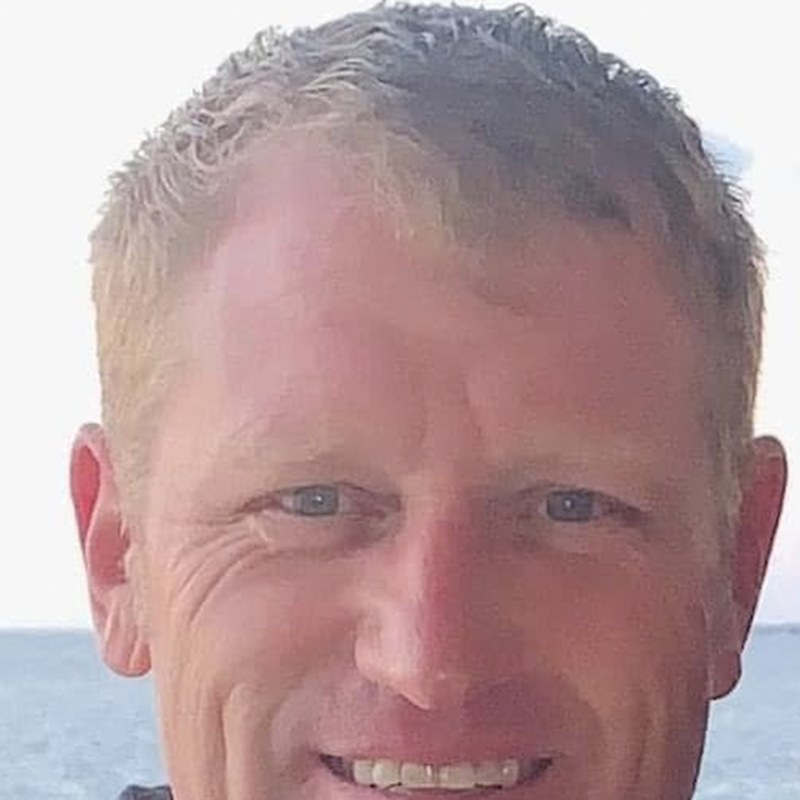
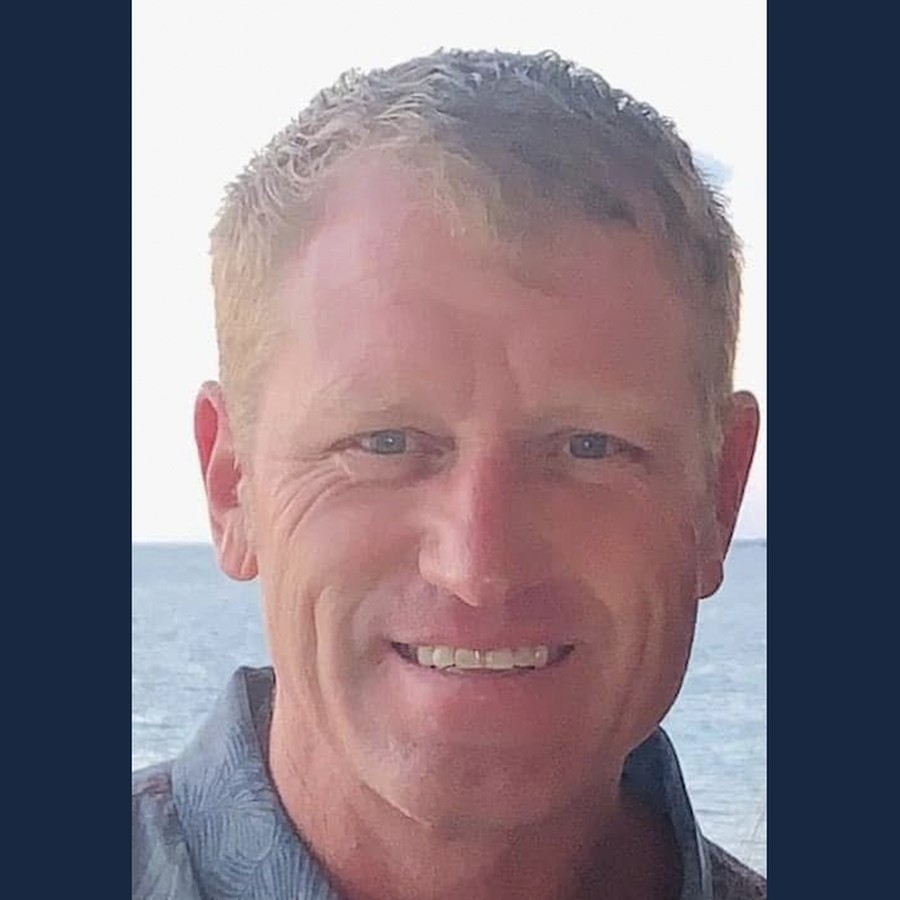
Fix coach headshots and add Dean photo gallery lightbox
Stop clipping faces on team cards with object-fit contain, replace dual cropped hero images with a thumbnail gallery and vanilla lightbox.

diff --git a/src/styles/global.css b/src/styles/global.css
@@ -642,19 +642,23 @@ p {
   border: 0;
 }
 
-/* Coach card photo */
+/* Coach card photo — contain so faces are not clipped */
 .coach-card-photo {
   margin: -1.25rem -1.25rem 1rem;
   overflow: hidden;
   border-radius: var(--radius) var(--radius) 0 0;
-  aspect-ratio: 1 / 1;
+  aspect-ratio: 4 / 5;
   background: var(--navy-mid);
+  display: flex;
+  align-items: center;
+  justify-content: center;
 }
 
 .coach-card-photo img {
   width: 100%;
   height: 100%;
-  object-fit: cover;
+  object-fit: contain;
+  object-position: center top;
 }
 
 /* Coach detail hero media */
@@ -686,13 +690,151 @@ p {
   object-fit: cover;
 }
 
+.coach-hero-featured img {
+  max-height: 420px;
+  object-fit: contain;
+  object-position: center top;
+  background: rgba(0, 0, 0, 0.15);
+}
+
 .coach-hero-action img {
   max-height: 360px;
   object-position: center top;
 }
 
 .coach-hero-media-single {
-  max-width: 280px;
+  max-width: 320px;
+}
+
+/* Coach photo gallery + lightbox */
+.photo-gallery {
+  display: grid;
+  grid-template-columns: repeat(auto-fill, minmax(120px, 1fr));
+  gap: 0.75rem;
+}
+
+@media (min-width: 700px) {
+  .photo-gallery {
+    grid-template-columns: repeat(auto-fill, minmax(140px, 1fr));
+  }
+}
+
+.photo-gallery-thumb {
+  display: block;
+  width: 100%;
+  padding: 0;
+  border: 1px solid var(--line);
+  border-radius: 10px;
+  overflow: hidden;
+  background: var(--navy-mid);
+  cursor: pointer;
+  aspect-ratio: 1 / 1;
+}
+
+.photo-gallery-thumb:focus-visible {
+  outline: 2px solid var(--red);
+  outline-offset: 2px;
+}
+
+.photo-gallery-thumb img {
+  width: 100%;
+  height: 100%;
+  object-fit: cover;
+  object-position: center top;
+  display: block;
+  transition: transform 0.2s ease;
+}
+
+.photo-gallery-thumb:hover img {
+  transform: scale(1.04);
+}
+
+.photo-lightbox[hidden] {
+  display: none !important;
+}
+
+.photo-lightbox {
+  position: fixed;
+  inset: 0;
+  z-index: 100;
+  display: grid;
+  place-items: center;
+}
+
+.photo-lightbox-backdrop {
+  position: absolute;
+  inset: 0;
+  background: rgba(11, 31, 58, 0.88);
+  cursor: pointer;
+}
+
+.photo-lightbox-dialog {
+  position: relative;
+  z-index: 1;
+  width: min(96vw, 960px);
+  max-height: 92vh;
+  display: flex;
+  flex-direction: column;
+  align-items: center;
+  gap: 0.75rem;
+  padding: 2.5rem 3rem 1rem;
+}
+
+.photo-lightbox-img {
+  max-width: 100%;
+  max-height: min(80vh, 820px);
+  width: auto;
+  height: auto;
+  object-fit: contain;
+  border-radius: 8px;
+  box-shadow: 0 16px 48px rgba(0, 0, 0, 0.45);
+  background: #000;
+}
+
+.photo-lightbox-close {
+  position: absolute;
+  top: 0;
+  right: 0.25rem;
+  border: 0;
+  background: transparent;
+  color: white;
+  font-size: 2rem;
+  line-height: 1;
+  cursor: pointer;
+  padding: 0.25rem 0.5rem;
+}
+
+.photo-lightbox-nav {
+  position: absolute;
+  top: 50%;
+  transform: translateY(-50%);
+  border: 0;
+  background: rgba(255, 255, 255, 0.12);
+  color: white;
+  font-size: 2rem;
+  line-height: 1;
+  width: 2.5rem;
+  height: 2.5rem;
+  border-radius: 999px;
+  cursor: pointer;
+}
+
+.photo-lightbox-nav:hover {
+  background: rgba(255, 255, 255, 0.22);
+}
+
+.photo-lightbox-prev {
+  left: 0;
+}
+
+.photo-lightbox-next {
+  right: 0;
+}
+
+.photo-lightbox-counter {
+  margin: 0;
+  color: rgba(255, 255, 255, 0.85);
+  font-size: 0.9rem;
 }
 
 /* Video embeds on coach pages */

diff --git a/src/content.config.ts b/src/content.config.ts
@@ -13,6 +13,7 @@ const coaches = defineCollection({
     image: z.string().optional(),
     portrait: z.string().optional(),
     actionImage: z.string().optional(),
+    gallery: z.array(z.string()).optional(),
     videos: z
       .array(
         z.object({

diff --git a/src/content/coaches/dean-starkey.md b/src/content/coaches/dean-starkey.md
@@ -6,8 +6,35 @@ pbs: PB 19'5" (5.92m)
 credentials: University of Illinois · World Championships Bronze Medal
 featured: true
 image: /images/coaches/dean-starkey.jpg
-portrait: /images/dean/dean-portrait-web.jpg
-actionImage: /images/dean/dean-vault-action.jpg
+gallery:
+  - /images/dean/gallery/dean-01.png
+  - /images/dean/gallery/dean-02.png
+  - /images/dean/gallery/dean-03.png
+  - /images/dean/gallery/dean-04.png
+  - /images/dean/gallery/dean-05.png
+  - /images/dean/gallery/dean-06.jpeg
+  - /images/dean/gallery/dean-07.jpeg
+  - /images/dean/gallery/dean-08.jpeg
+  - /images/dean/gallery/dean-09.jpeg
+  - /images/dean/gallery/dean-10.jpeg
+  - /images/dean/gallery/dean-11.jpeg
+  - /images/dean/gallery/dean-12.jpeg
+  - /images/dean/gallery/dean-13.jpeg
+  - /images/dean/gallery/dean-14.jpeg
+  - /images/dean/gallery/dean-15.jpeg
+  - /images/dean/gallery/dean-16.jpeg
+  - /images/dean/gallery/dean-17.jpeg
+  - /images/dean/gallery/dean-18.jpeg
+  - /images/dean/gallery/dean-19.jpeg
+  - /images/dean/gallery/dean-20.jpeg
+  - /images/dean/gallery/dean-21.jpeg
+  - /images/dean/gallery/dean-22.jpeg
+  - /images/dean/gallery/dean-23.jpeg
+  - /images/dean/gallery/dean-24.jpeg
+  - /images/dean/gallery/dean-25.webp
+  - /images/dean/gallery/dean-26.webp
+  - /images/dean/gallery/dean-27.webp
+  - /images/dean/dean-vault-action.jpg
 videos:
   - id: LwsBlKL7Ys8
     title: "1997 World Championships - Athens, Greece - Dean Starkey 19'5\" 5.91m, Bronze Medal"
